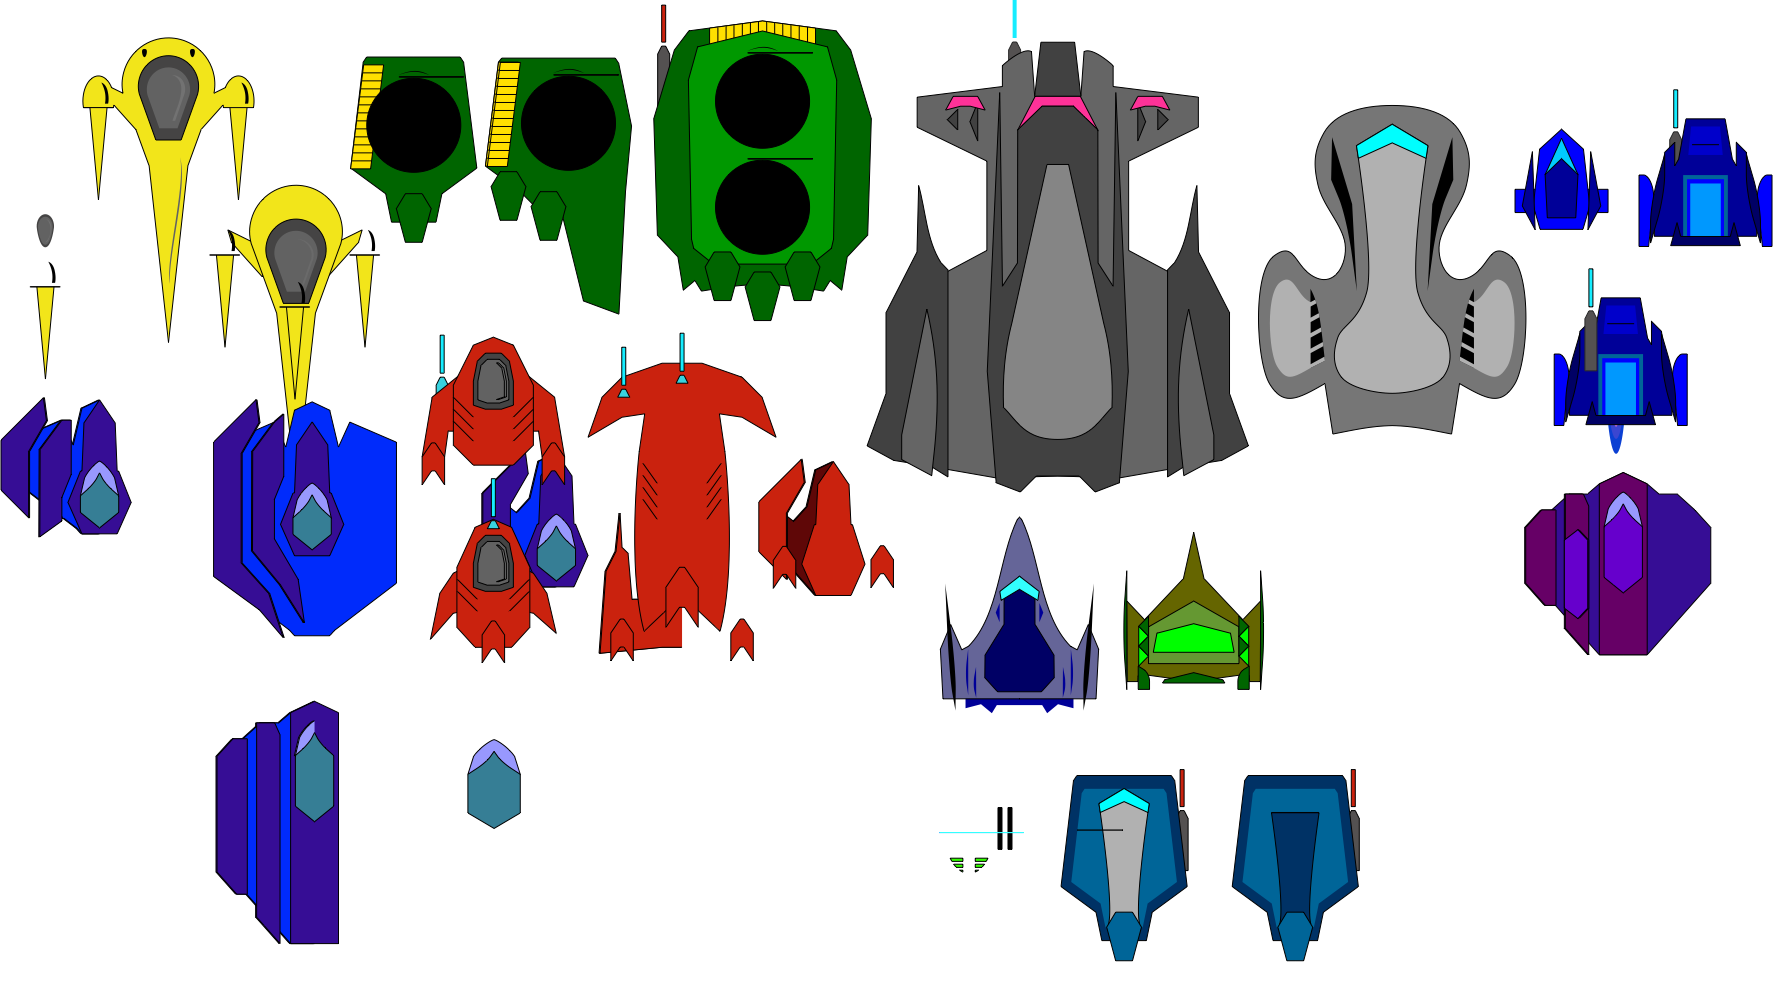
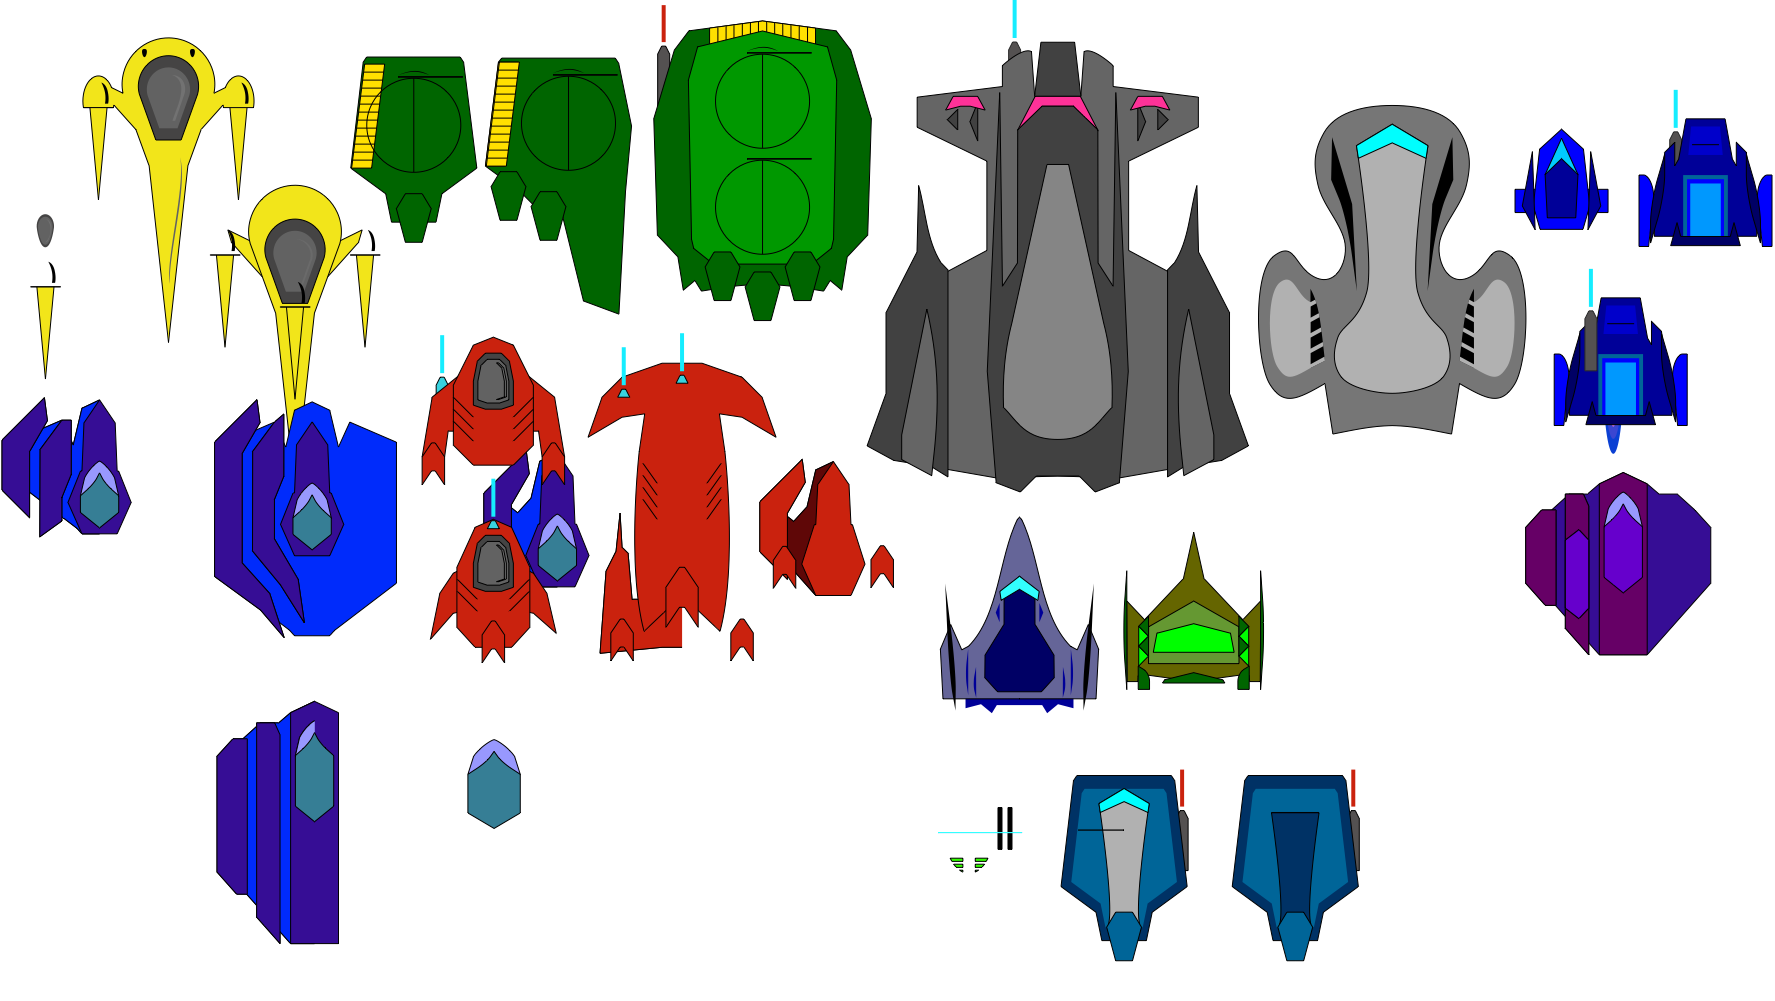
Fix SVG style merging

diff --git a/NGraphics/SvgReader.cs b/NGraphics/SvgReader.cs
@@ -64,7 +64,7 @@ namespace NGraphics
 			//
 			Graphic = new Graphic (size, viewBox);
 
-			AddElements (Graphic.Children, svg.Elements (), null, null);
+			AddElements (Graphic.Children, svg.Elements (), null, Brushes.Black);
 		}
 
 		void AddElements (IList<IDrawable> list, IEnumerable<XElement> es, Pen inheritPen, Brush inheritBrush)
@@ -81,16 +81,14 @@ namespace NGraphics
 			Element r = null;
 			Pen pen = null;
 			Brush brush = null;
-			ApplyStyle (e.Attributes ().ToDictionary (k => k.Name.LocalName, v => v.Value), ref pen, ref brush);
+			bool hasPen, hasBrush;
+			ApplyStyle (e.Attributes ().ToDictionary (k => k.Name.LocalName, v => v.Value), ref pen, out hasPen, ref brush, out hasBrush);
 			var style = ReadString (e.Attribute ("style"));
 			if (!string.IsNullOrWhiteSpace (style)) {
-				ApplyStyle (style, ref pen, ref brush);
+				ApplyStyle (style, ref pen, out hasPen, ref brush, out hasBrush);
 			}
-			pen = pen ?? inheritPen;
-			brush = brush ?? inheritBrush;
-			//if (pen == null && brush == null) {
-			//	brush = Brushes.Black;
-			//}
+			pen = hasPen ? pen : inheritPen;
+			brush = hasBrush ? brush : inheritBrush;
 			//var id = ReadString (e.Attribute ("id"));
 
 			//
@@ -211,7 +209,7 @@ namespace NGraphics
 
 		Regex keyValueRe = new Regex (@"\s*(\w+)\s*:\s*(.*)");
 
-		void ApplyStyle (string style, ref Pen pen, ref Brush brush)
+		void ApplyStyle (string style, ref Pen pen, out bool hasPen, ref Brush brush, out bool hasBrush)
 		{
 			var d = new Dictionary<string, string> ();
 			var kvs = style.Split (new[]{ ';' }, StringSplitOptions.RemoveEmptyEntries);
@@ -223,7 +221,7 @@ namespace NGraphics
 					d [k] = v;
 				}
 			}
-			ApplyStyle (d, ref pen, ref brush);
+			ApplyStyle (d, ref pen, out hasPen, ref brush, out hasBrush);
 		}
 
 		string GetString (Dictionary<string, string> style, string name, string defaultValue = "")
@@ -236,7 +234,7 @@ namespace NGraphics
 
 		Regex fillUrlRe = new Regex (@"url\s*\(\s*#([^\)]+)\)");
 
-		void ApplyStyle (Dictionary<string, string> style, ref Pen pen, ref Brush brush)
+		void ApplyStyle (Dictionary<string, string> style, ref Pen pen, out bool hasPen, ref Brush brush, out bool hasBrush)
 		{
 			//
 			// Pen attributes
@@ -261,9 +259,12 @@ namespace NGraphics
 			var stroke = GetString (style, "stroke").Trim ();
 			if (string.IsNullOrEmpty (stroke)) {
 				// No change
+				hasPen = false;
 			} else if (stroke.Equals("none", StringComparison.OrdinalIgnoreCase)) {
+				hasPen = true;
 				pen = null;
 			} else {
+				hasPen = true;
 				if (pen == null)
 					pen = new Pen ();
 				Color color;
@@ -293,9 +294,12 @@ namespace NGraphics
 			var fill = GetString (style, "fill").Trim ();
 			if (string.IsNullOrEmpty (fill)) {
 				// No change
+				hasBrush = false;
 			} else if (fill.Equals("none", StringComparison.OrdinalIgnoreCase)) {
+				hasBrush = true;
 				brush = null;
 			} else {
+				hasBrush = true;
 				Color color;
 				if (Colors.TryParse (fill, out color)) {
 					var sb = brush as SolidBrush;

diff --git a/Platforms/NGraphics.Mac/ApplePlatform.cs b/Platforms/NGraphics.Mac/ApplePlatform.cs
@@ -7,7 +7,6 @@ using System.Linq;
 using System.Collections.Generic;
 using System.IO;
 using System.Runtime.InteropServices;
-using UIKit;
 using System.Threading.Tasks;
 
 namespace NGraphics
@@ -261,11 +260,17 @@ namespace NGraphics
 			SetBrush (brush);
 
 			string fontName = font.Name;
-			var availableFonts = UIFont.FontNamesForFamilyName(fontName);
+			Array availableFonts =
+				#if __IOS__
+				UIKit.UIFont.FontNamesForFamilyName(fontName);
+				#else
+				AppKit.NSFontManager.SharedFontManager.AvailableMembersOfFontFamily (fontName).ToArray ();
+				#endif
 			if (availableFonts != null && availableFonts.Length > 0)
 				context.SelectFont (font.Name, (nfloat)font.Size, CGTextEncoding.MacRoman);
 			else
-				context.SelectFont("Helvetica", (nfloat)font.Size, CGTextEncoding.MacRoman);
+				context.SelectFont ("Georgia", (nfloat)font.Size, CGTextEncoding.MacRoman);
+			
 			context.ShowTextAtPoint ((nfloat)frame.X, (nfloat)frame.Y, text);
 
 //			using (var atext = new NSMutableAttributedString (text)) {
